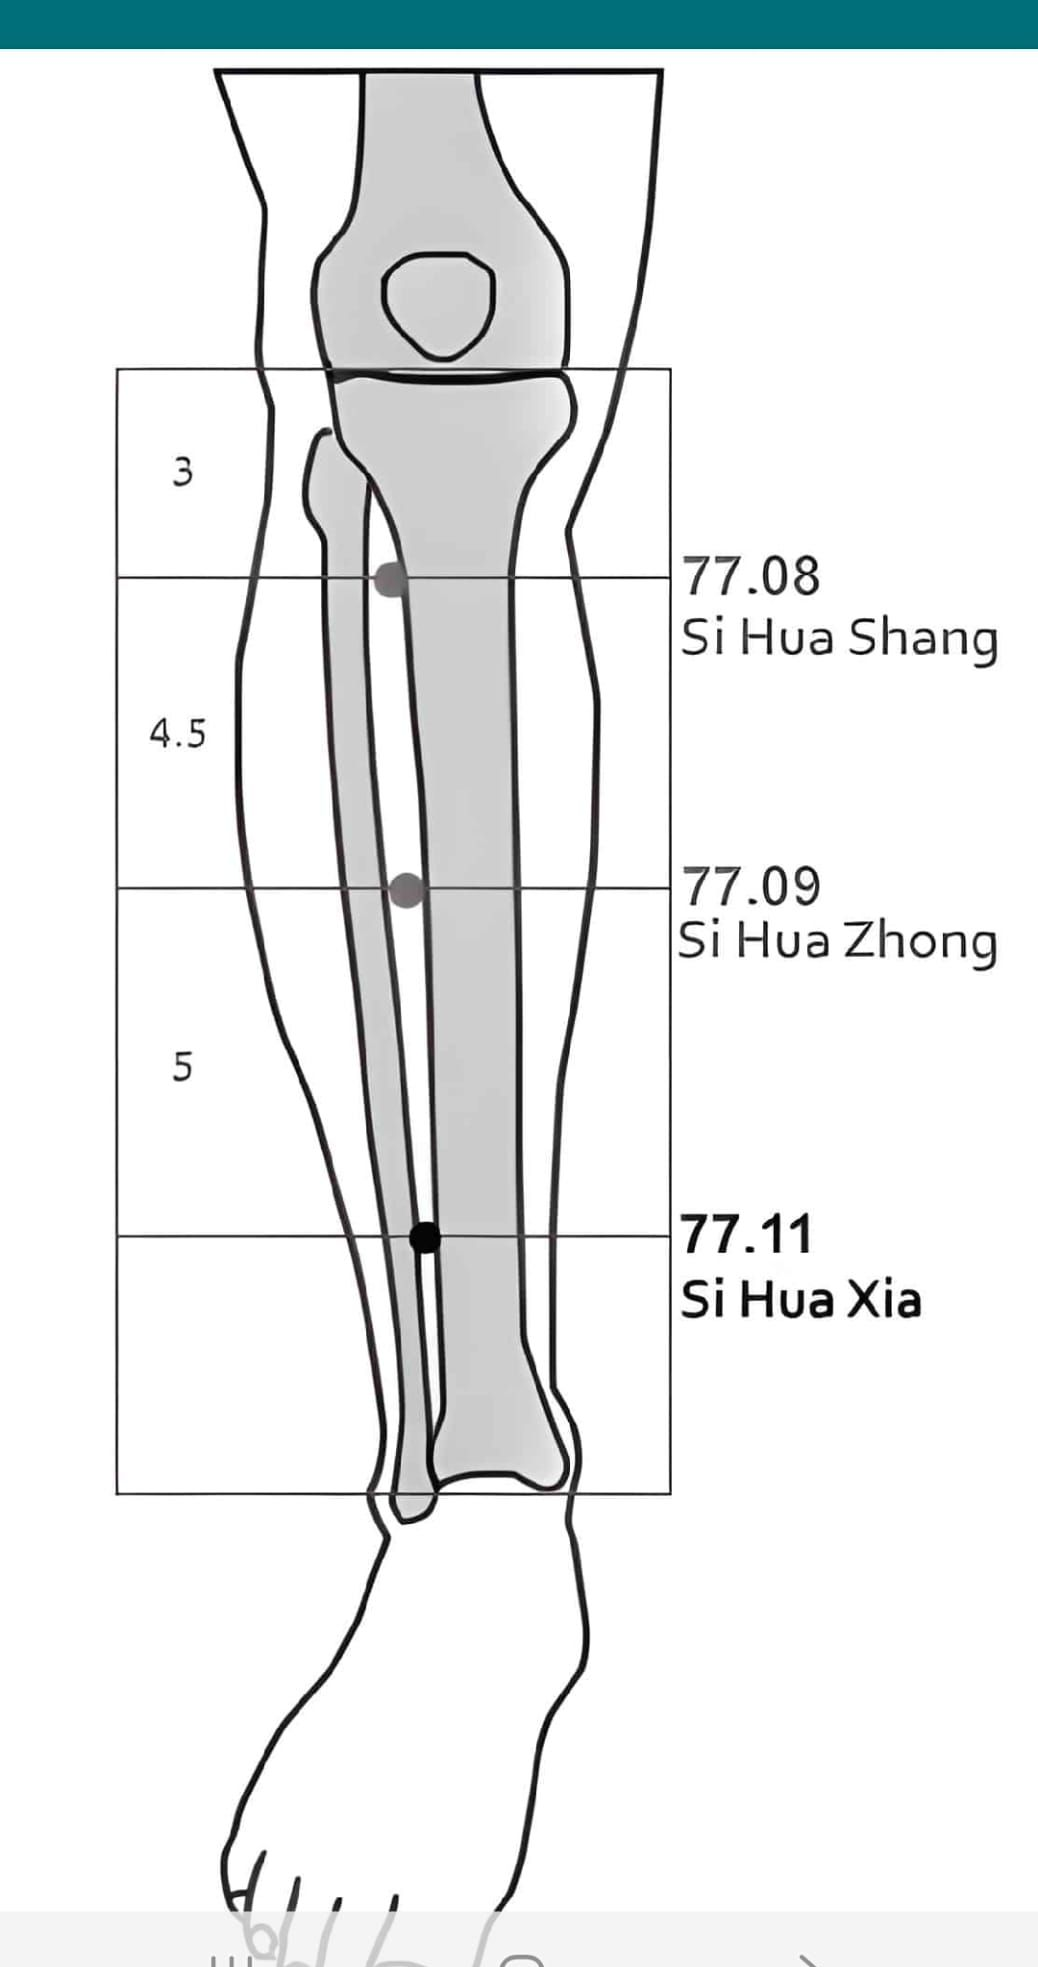
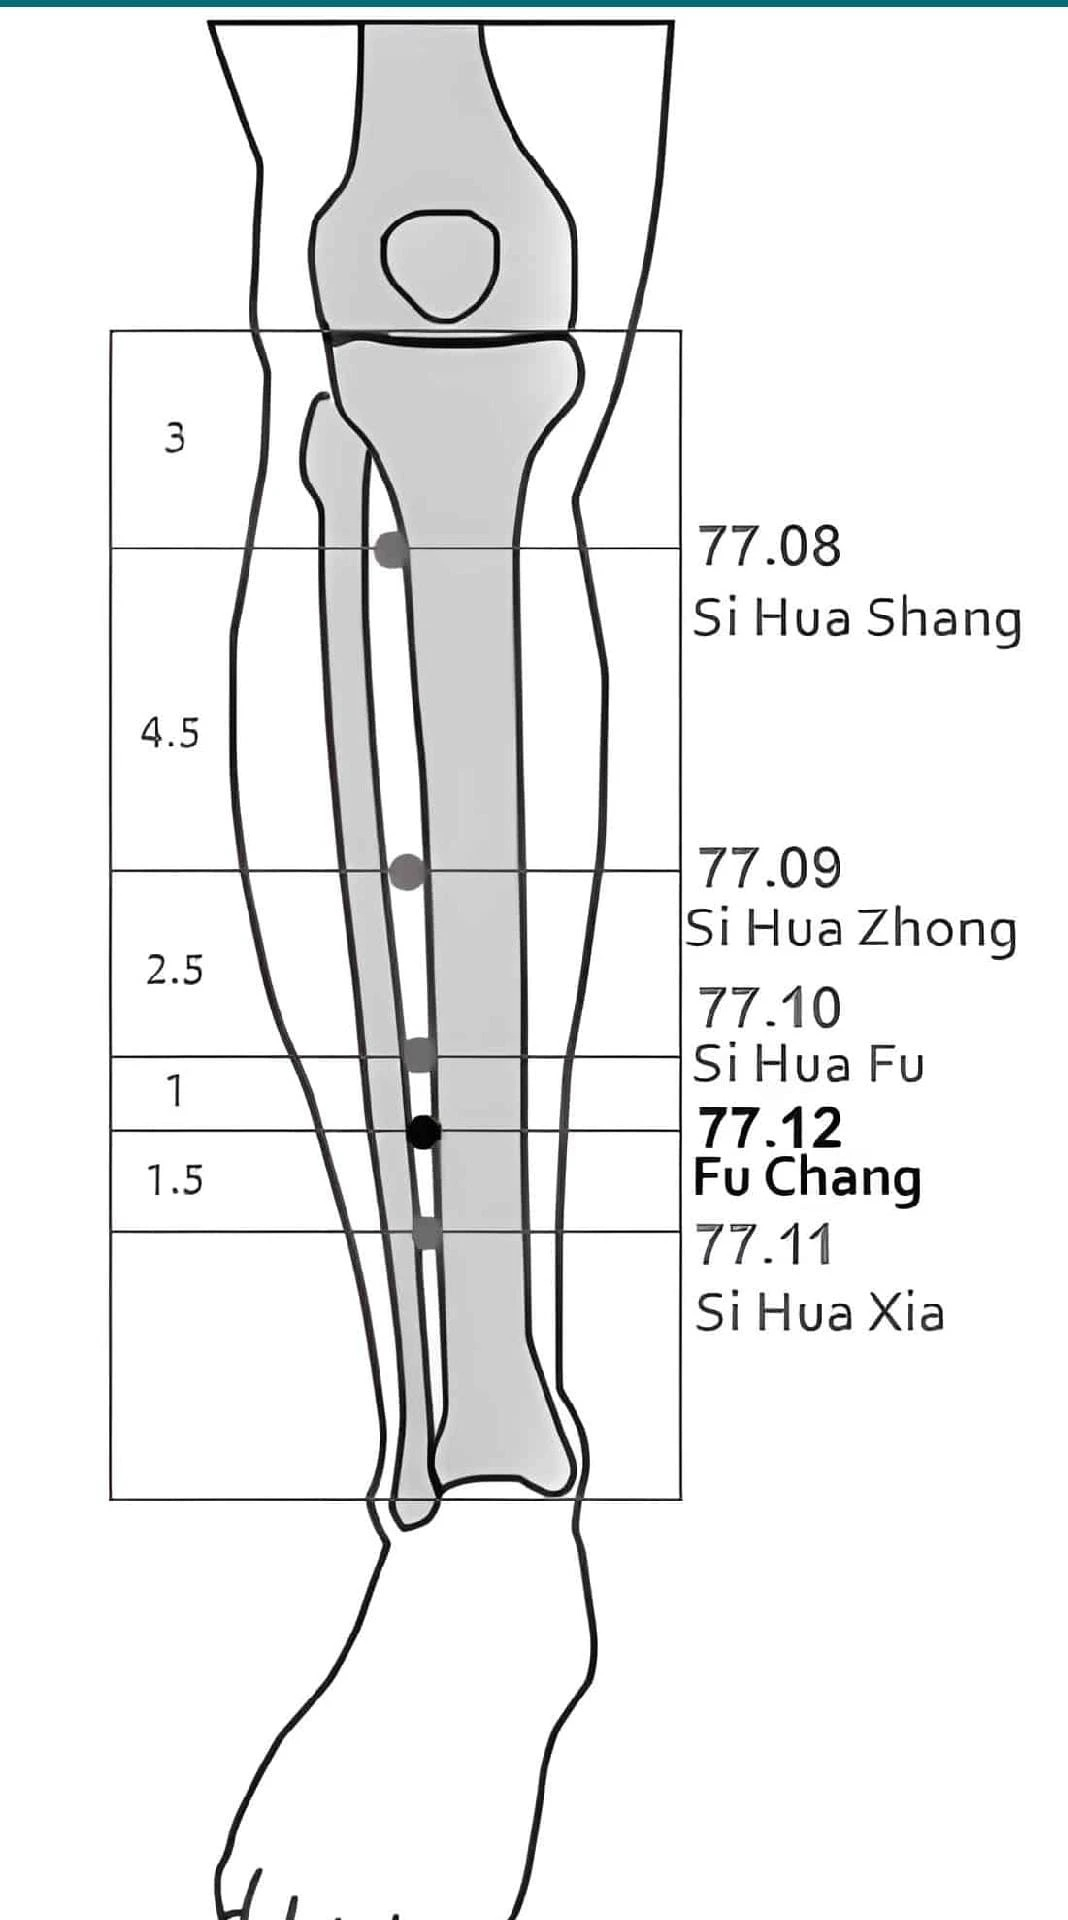
תיקון תמונות: 77.12 האמיתית והדגשת אזורי ההקזה בגב
77.12 FuChang הציגה עותק זהה בייט-לבייט של התרשים של 77.11,
שבו הנקודה כלל לא מסומנת. הוחלפה בתרשים המקורי מאפליקציית שון,
שמראה את הנקודה בין 77.10 ל-77.11 עם סולם הצון המלא.

חמש נקודות ההקזה בגב (DT.18-DT.22) קיבלו את אותו תרשים גנרי
עם כל חמשת האזורים מסומנים יחד, בלי סימון האזור השייך לנקודה.
כל אחת נבנתה מחדש מתרשים בסיס משותף כשהרצועה שלה מודגשת
והשאר מעומעם. הכלי שמייצר אותן נשמר ב-scripts.

Changed region(s): [[0.0, 0.0, 1.0, 1.0], [0.1541, 0.2188, 0.185, 0.25]]

diff --git a/scripts/gen-dt-bleeding-images.py b/scripts/gen-dt-bleeding-images.py
@@ -1,0 +1,56 @@
+# -*- coding: utf-8 -*-
+"""
+מייצר את תמונות אזורי ההקזה בגב (DT.18-DT.22).
+
+הבעיה שהכלי פותר: חמש הנקודות קיבלו את אותו תרשים גנרי של הגב עם כל
+חמשת האזורים מסומנים, בלי שום סימון של האזור השייך לנקודה הנוכחית.
+
+כאן נלקח תרשים בסיס אחד (sources/bleeding-bases/back-zones.jpg) ומיוצרות
+ממנו חמש תמונות, כל אחת עם הרצועה הרלוונטית בהדגשה והשאר מעומעם.
+
+הרצה:  python scripts/gen-dt-bleeding-images.py
+"""
+import os
+from PIL import Image, ImageDraw
+
+ROOT = os.path.dirname(os.path.dirname(os.path.abspath(__file__)))
+BASE = os.path.join(ROOT, 'sources', 'bleeding-bases', 'back-zones.jpg')
+OUTDIR = os.path.join(ROOT, 'public', 'images')
+
+# גבולות הרצועות בתרשים הבסיס (פיקסלים, אחרי החיתוך)
+SEPARATORS = [237, 386, 577, 707, 890, 1056]
+
+# נקודה -> אינדקס הרצועה מלמעלה למטה
+ZONES = {
+    'DT.19': (0, 'Lungs and Heart'),
+    'DT.20': (1, 'Liver'),
+    'DT.21': (2, 'Spleen and Stomach'),
+    'DT.22': (3, 'Kidneys'),
+    'DT.18': (4, 'Sacrum'),
+}
+
+DIM = 0.62                 # כמה לעמעם את מה שמחוץ לרצועה
+ACCENT = (198, 40, 40)     # מסגרת ההדגשה
+FILL = (214, 69, 69, 28)   # מילוי שקוף קל
+
+
+def build(point_id, band_index):
+    base = Image.open(BASE).convert('RGB')
+    top, bottom = SEPARATORS[band_index], SEPARATORS[band_index + 1]
+
+    img = Image.blend(base, Image.new('RGB', base.size, 'white'), DIM)
+    img.paste(base.crop((0, top, base.width, bottom)), (0, top))
+
+    d = ImageDraw.Draw(img, 'RGBA')
+    box = [10, top, base.width - 10, bottom]
+    d.rectangle(box, fill=FILL)
+    d.rectangle(box, outline=ACCENT + (255,), width=6)
+
+    img.save(os.path.join(OUTDIR, point_id + '.jpg'), quality=90)
+    return point_id
+
+
+if __name__ == '__main__':
+    for pid, (idx, label) in sorted(ZONES.items()):
+        build(pid, idx)
+        print('%s  ->  %s' % (pid, label))
